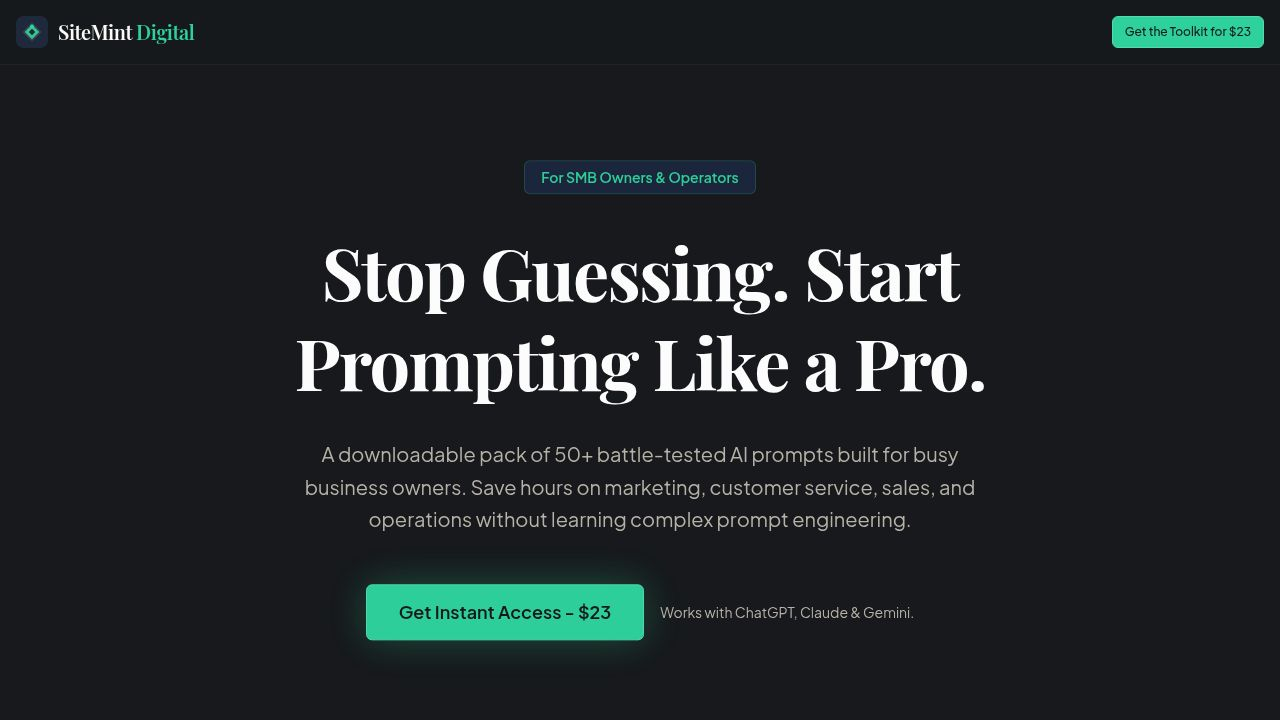
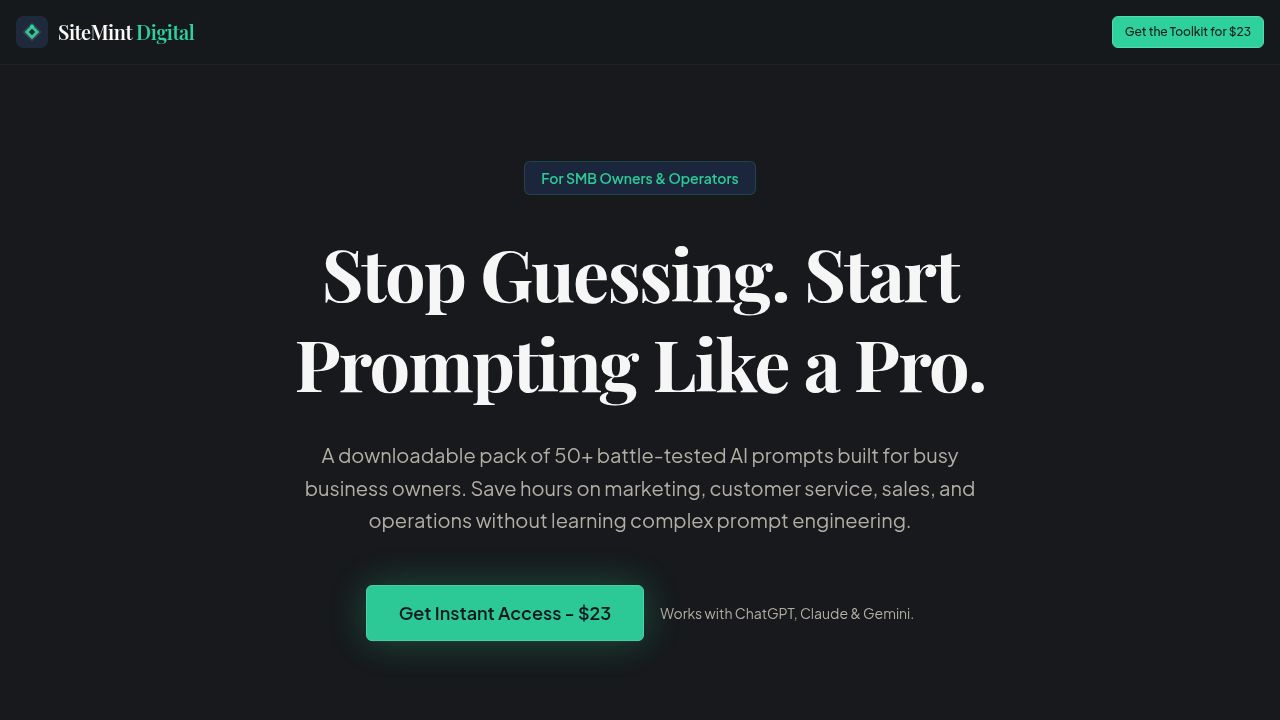
Prevent horizontal scrolling by allowing text to wrap
Adjust layout in CrmLayout and CrmLeadDetail to ensure content wraps and does not cause horizontal overflow on any screen size by modifying overflow properties and applying minimum width and break-all classes to text elements.

Replit-Commit-Author: Agent
Replit-Commit-Session-Id: 1157ecf7-3c02-4166-92d8-f4d7d92c0389
Replit-Commit-Checkpoint-Type: full_checkpoint
Replit-Commit-Event-Id: 3577b1d2-4374-4aff-808f-82a48a661edd
Replit-Commit-Screenshot-Url: https://storage.googleapis.com/screenshot-production-us-central1/a4d0d5f2-52ef-4ef5-bb8c-7d4810b97340/1157ecf7-3c02-4166-92d8-f4d7d92c0389/FxiD0Yp
Replit-Helium-Checkpoint-Created: true

diff --git a/artifacts/web-agency/src/pages/crm/CrmLeadDetail.tsx b/artifacts/web-agency/src/pages/crm/CrmLeadDetail.tsx
@@ -818,8 +818,8 @@ export default function CrmLeadDetail() {
               </div>
 
               <div className="grid sm:grid-cols-2 gap-2 mt-4">
-                <a href={`mailto:${lead.email}`} className="flex items-center gap-2 text-sm text-muted-foreground hover:text-primary transition-colors">
-                  <Mail className="w-3.5 h-3.5 shrink-0" /> {lead.email}
+                <a href={`mailto:${lead.email}`} className="flex items-center gap-2 text-sm text-muted-foreground hover:text-primary transition-colors min-w-0">
+                  <Mail className="w-3.5 h-3.5 shrink-0" /> <span className="min-w-0 break-all">{lead.email}</span>
                 </a>
                 {/* ── Phone field with inline edit ── */}
                 <div className="flex flex-col gap-1">
@@ -914,8 +914,8 @@ export default function CrmLeadDetail() {
                   )}
                 </div>
                 {lead.website && (
-                  <a href={lead.website} target="_blank" rel="noopener noreferrer" className="flex items-center gap-2 text-sm text-muted-foreground hover:text-primary transition-colors">
-                    <Globe className="w-3.5 h-3.5 shrink-0" /> {lead.website}
+                  <a href={lead.website} target="_blank" rel="noopener noreferrer" className="flex items-center gap-2 text-sm text-muted-foreground hover:text-primary transition-colors min-w-0">
+                    <Globe className="w-3.5 h-3.5 shrink-0" /> <span className="min-w-0 break-all">{lead.website}</span>
                   </a>
                 )}
                 {lead.nextFollowUpAt && (

diff --git a/artifacts/web-agency/src/pages/crm/CrmLayout.tsx b/artifacts/web-agency/src/pages/crm/CrmLayout.tsx
@@ -1178,7 +1178,7 @@ export function CrmLayout({ children }: { children: React.ReactNode }) {
         )}
 
         {/* ── Main content ── */}
-        <main className="flex-1 overflow-auto min-w-0">
+        <main className="flex-1 overflow-y-auto overflow-x-hidden min-w-0">
           <CrmErrorBoundary>
             {children}
           </CrmErrorBoundary>